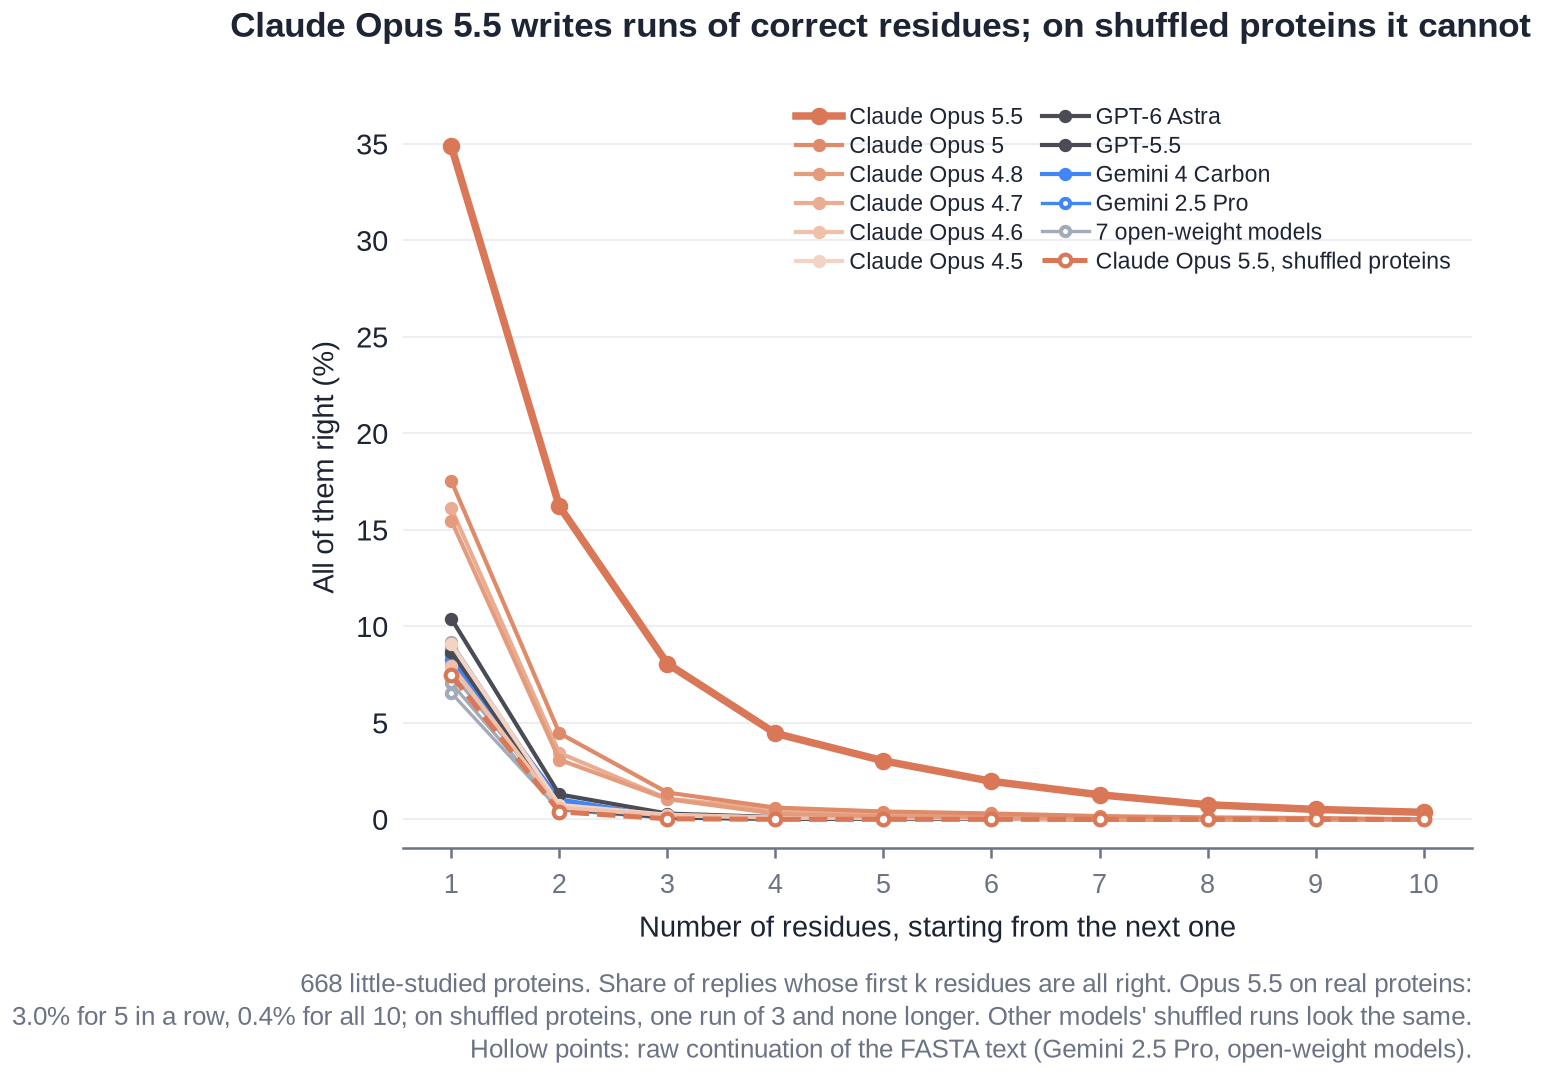
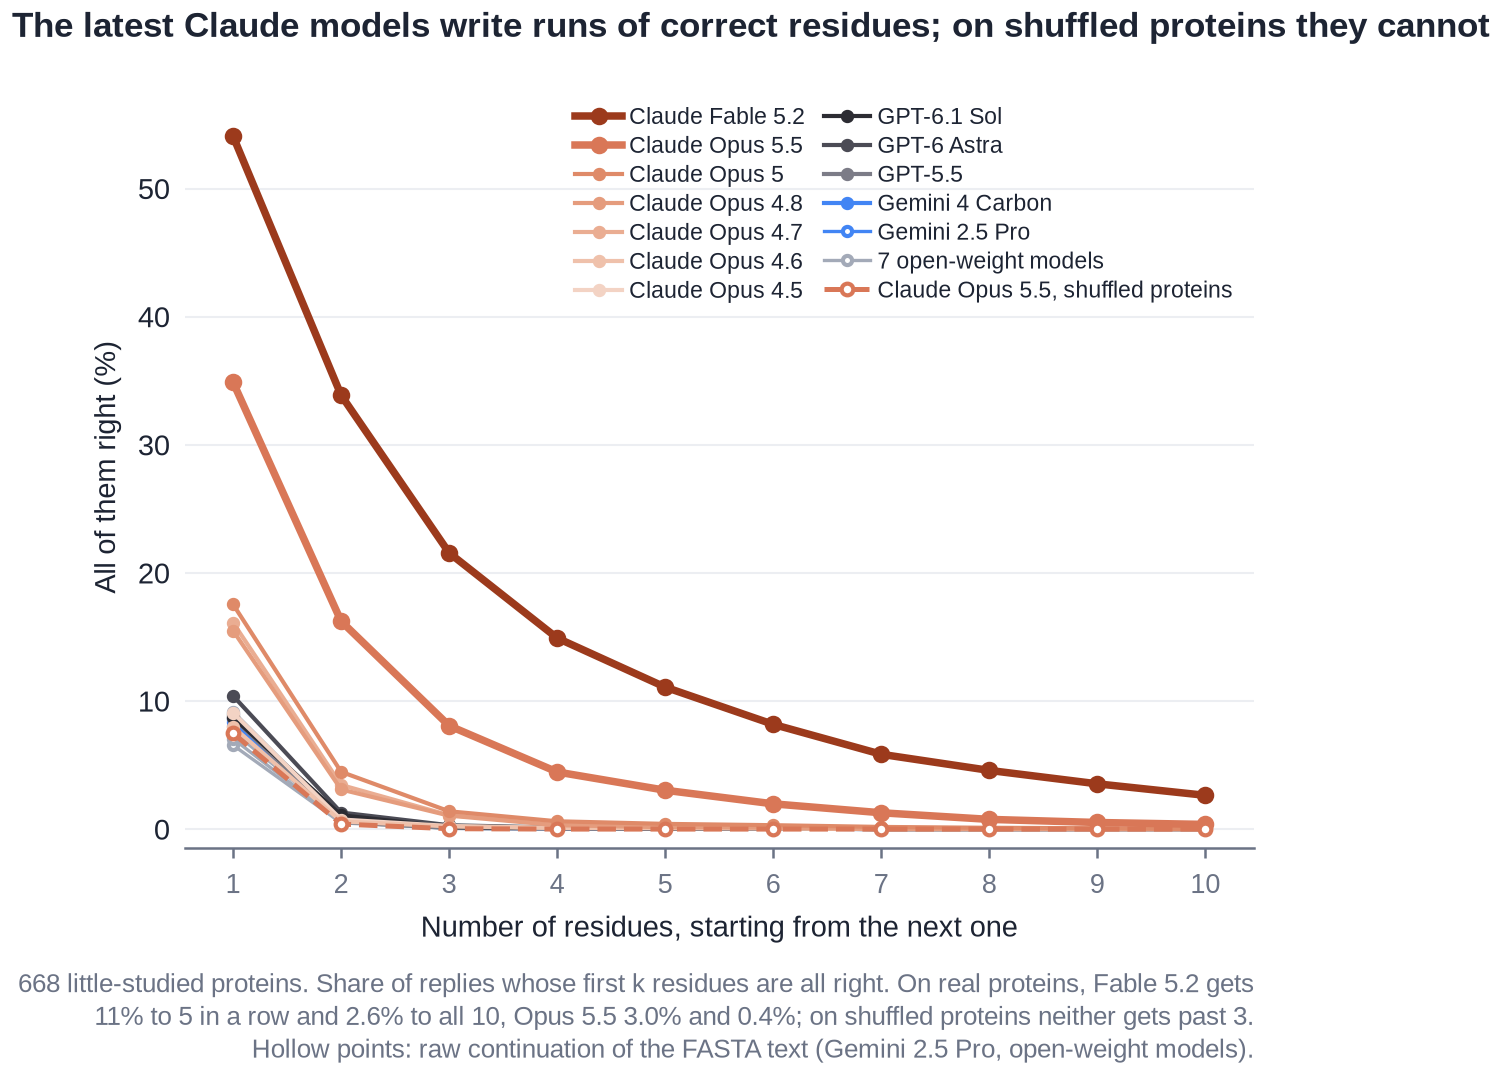
Make the post about the latest Claude models, adding Fable 5.2 and GPT-6.1 Sol
Claude Fable 5.2 scores +45.1, well above Opus 5.5 and ProtGPT3-10B;
GPT-6.1 Sol stays near zero. All main-set figures now cover 19 language
models. The appendix adds a no-instruction test and a Fable 5.2 repeat
run, and the methods say how Fable 5.2 was reached.

diff --git a/_posts/2026-11-16-claude-opus-5-5-protein-sequences.md b/_posts/2026-11-16-claude-opus-5-5-protein-sequences.md
@@ -1,7 +1,7 @@
 ---
 layout: distill
-title: "Claude Opus 5.5 was trained on protein sequences at scale"
-description: "A next-amino-acid test on little-studied proteins, with a shuffled control, finds sequence data in one frontier model's training and no sign of it in the others."
+title: "The latest Claude models were trained on protein sequences at scale"
+description: "A next-amino-acid test on little-studied proteins, with a shuffled control, finds sequence data in the latest Claude models' training and no sign of it in other frontier models."
 date: 2026-11-16
 tags: ['AI', 'biology', 'LLM', 'evaluation']
 categories: blog
@@ -10,7 +10,7 @@ bibliography: 2026-11-16-claude-opus-5-5-protein-sequences.bib
 toc:
   - name: "Motivation"
   - name: "Method: next-amino-acid prediction on little-studied proteins"
-  - name: "Results: only Claude Opus 5.5 predicts them"
+  - name: "Results: only the latest Claude models predict them"
   - name: "Comparison with protein language models"
   - name: "Evidence that this comes from training data"
   - name: "Famous proteins and variant ranking"
@@ -67,7 +67,7 @@ _styles: |
 ---
 
 <div class="bp-lede" markdown="1">
-**Claude Opus 5.5 was trained on protein sequences, at scale.** Give it the start of a little-studied bacterial protein and it predicts the next amino acid far better than when the same protein is shuffled. No other model we tested can do this: not GPT, not Gemini, not seven open-weight models. The bigger a protein's family, the better Opus 5.5 does, even in families with no papers at all. The ability first appears in Opus 4.7 and jumps in Opus 5.5, which matches ProtGPT3-10B, the largest open protein language model of its kind.
+**The latest Claude models were trained on protein sequences, at scale.** Give Claude Fable 5.2 or Claude Opus 5.5 the start of a little-studied bacterial protein and it predicts the next amino acid far better than when the same protein is shuffled. No other model we tested can do this: not GPT, not Gemini, not seven open-weight models. The ability first appears in Opus 4.7, grows in Opus 5.5, which matches ProtGPT3-10B, the largest open protein language model of its kind, and is strongest in Fable 5.2, which beats it by a wide margin. It holds even in protein families with no papers at all.
 </div>
 
 ## Motivation
@@ -90,49 +90,49 @@ The proteins are little-studied: 668 of them, from 167 Pfam families of unknown 
 
 We also looked at longer continuations: how often a model gets all 10 requested residues right, and how far it can recite a famous protein when asked for 200 residues (Appendix B).
 
-## Results: only Claude Opus 5.5 predicts them
+## Results: only the latest Claude models predict them
 
 <figure class="bp-figure" markdown="0">
-  <img src="{{ '/assets/img/llm-bioseq-probe/fig1_protein.png' | relative_url }}?v=20261117b" alt="Forest plot of the real-minus-shuffled gap for 17 language models: Claude Opus 5.5 at +27.4 points, earlier Claude Opus models up to 10, every other model between 0 and 3.">
+  <img src="{{ '/assets/img/llm-bioseq-probe/fig1_protein.png' | relative_url }}?v=20261117d" alt="Forest plot of the real-minus-shuffled gap for 19 language models: Claude Fable 5.2 at +45.1 points, Claude Opus 5.5 at +27.4, earlier Claude Opus models up to 10, every other model between 0 and 3.">
   <figcaption>Filled points: the chat prompt. Hollow points: raw next-token continuation of the FASTA text, through a completion endpoint or a prefilled reply, for models that allow it.</figcaption>
 </figure>
 
-Opus 5.5's gap is 27.4 points (95% CI 24.7 to 30.0), and it shows up in 95% of families. Within Claude, Opus 4.5 and 4.6 show nothing, Opus 4.7 to 5 reach 8 to 10 points, and Opus 5.5 jumps to 27. The open-weight models stay flat even when they simply continue the raw FASTA text, the way they were trained. The lead is not just on the first residue: Opus 5.5 is still 18.5 points ahead at the tenth, and it writes runs of correct residues that no other model, and no shuffled protein, gets close to (Appendix B).
+Fable 5.2 gets the next amino acid right 54% of the time on real proteins and 9% on shuffled ones, a gap of 45.1 points (95% CI 42.5 to 47.6) that shows up in 98% of families. Opus 5.5's gap is 27.4 points (24.7 to 30.0), in 95% of families. Within the Opus line, Opus 4.5 and 4.6 show nothing, Opus 4.7 to 5 reach 8 to 10 points, and Opus 5.5 jumps to 27. All three GPT models, the newest GPT-6.1 Sol included, stay below 3 points, and the open-weight models stay flat even when they simply continue the raw FASTA text, the way they were trained. The lead is not just on the first residue: at the tenth residue Fable 5.2 is still 38.7 points ahead and Opus 5.5 18.5, and both write runs of correct residues that no other model, and no shuffled protein, gets close to (Appendix B).
 
 ## Comparison with protein language models
 
-Protein language models learn only from sequences, which makes them a natural yardstick. The closest match to an LLM is ProtGPT3<d-cite key="garibbo2026protgpt3"></d-cite>, released this year: it reads a protein left to right and predicts the next residue, and its 10-billion-parameter version is the largest open model of its kind. Given exactly the same input, Opus 5.5 matches it.
+Protein language models learn only from sequences, which makes them a natural yardstick. The closest match to an LLM is ProtGPT3<d-cite key="garibbo2026protgpt3"></d-cite>, released this year: it reads a protein left to right and predicts the next residue, and its 10-billion-parameter version is the largest open model of its kind. Given exactly the same input, Opus 5.5 matches it and Fable 5.2 beats it by 17 points.
 
 <figure class="bp-figure" markdown="0">
-  <img src="{{ '/assets/img/llm-bioseq-probe/fig6_protein_lm.png' | relative_url }}?v=20261117b" alt="Dot plot: ProtGPT3-10B +27.7 and Claude Opus 5.5 +27.4 at the top; ESM C 600M +13.0, ProtGPT3-1.3B +11.6, ProtGPT2 +10.2, ESM3-open +8.5 and ESM-2 650M +7.0 well below.">
+  <img src="{{ '/assets/img/llm-bioseq-probe/fig6_protein_lm.png' | relative_url }}?v=20261117d" alt="Dot plot: Claude Fable 5.2 +45.1 at the top, then ProtGPT3-10B +27.7 and Claude Opus 5.5 +27.4; ESM C 600M +13.0, ProtGPT3-1.3B +11.6, ProtGPT2 +10.2, ESM3-open +8.5 and ESM-2 650M +7.0 well below.">
 </figure>
 
-ProtGPT3-10B gets more answers right (38.4% vs 34.9%), but it also does better on shuffled proteins (10.7% vs 7.5%) because it knows amino acid composition better. The gap, which is what each model knows about order, comes out the same. ESM models are built to see both sides of a residue, so this test is harder for them. Appendix C has all seven models.
+ProtGPT3-10B gets more answers right than Opus 5.5 (38.4% vs 34.9%), but it also does better on shuffled proteins (10.7% vs 7.5%) because it knows amino acid composition better, so the gap, which is what each model knows about order, comes out the same. Fable 5.2 gets 54.1% right on real proteins and 9.0% on shuffled ones. ESM models are built to see both sides of a residue, so this test is harder for them. Appendix C has all seven models.
 
 ## Evidence that this comes from training data
 
 <figure class="bp-figure" markdown="0">
-  <img src="{{ '/assets/img/llm-bioseq-probe/fig5_family_size.png' | relative_url }}?v=20261117b" alt="Line chart: Claude Opus 5.5 and ProtGPT3-10B both rise from about 21 to 24 points in families of 300 to 1,000 proteins to 37 points in families over 10,000; other models stay near zero.">
+  <img src="{{ '/assets/img/llm-bioseq-probe/fig5_family_size.png' | relative_url }}?v=20261117d" alt="Line chart: Claude Opus 5.5 and ProtGPT3-10B both rise from about 21 to 24 points in families of 300 to 1,000 proteins to 37 points in families over 10,000; Claude Fable 5.2 stays between 41 and 46 in every bin; other models stay near zero.">
 </figure>
 
-If the signal comes from training on sequences, bigger families should be easier, and they are: Opus 5.5 gains 21 points on families of 300 to 1,000 proteins and 37 on families over 10,000 (Spearman 0.27, p = 0.0002). ProtGPT3-10B, trained on nothing but sequences, traces the same curve, and Opus 4.7 to 5 follow it at a lower level. Two other explanations don't hold up:
+If the signal comes from training on sequences, bigger families should be easier, and they are: Opus 5.5 gains 21 points on families of 300 to 1,000 proteins and 37 on families over 10,000 (Spearman 0.27, p = 0.0002). ProtGPT3-10B, trained on nothing but sequences, traces the same curve, and Opus 4.7 to 5 follow it at a lower level. Fable 5.2 is the exception: it is as good on small families as on large ones (rho 0.00). Two other explanations for the signal don't hold up:
 
-- **Papers.** In the 128 families with no papers at all, the gap is 26.8 points and still rises with family size (rho 0.28, p = 0.001). Across families it has nothing to do with how many papers exist (rho 0.05).
-- **Reasoning.** More than half the time Opus 5.5 answers in 15 tokens or fewer, essentially just the answer, and it is still right 35.6% of the time (7.3% on shuffled proteins). GPT-6 Astra thinks for over 200 tokens per question and gets about 10%.
+- **Papers.** In the 128 families with no papers at all, the gap is 26.8 points for Opus 5.5 and 45.9 for Fable 5.2, and for Opus 5.5 it still rises with family size (rho 0.28, p = 0.001). Across families it has nothing to do with how many papers exist (rho 0.05).
+- **Reasoning.** Fable 5.2 writes about 30 tokens per answer, and more than half the time Opus 5.5 answers in 15 tokens or fewer, essentially just the answer, and is still right 35.6% of the time (7.3% on shuffled proteins). GPT-6 Astra and GPT-6.1 Sol think for hundreds of tokens per question and stay near 10%.
 
 ## Famous proteins and variant ranking
 
 <figure class="bp-figure" markdown="0">
-  <img src="{{ '/assets/img/llm-bioseq-probe/fig3_known_vs_obscure.png' | relative_url }}?v=20261117b" alt="Dumbbell chart: on well-known proteins many models score high; on obscure proteins Claude Opus 5.5 and ProtGPT3-10B stay high while Gemini 4 Carbon drops to near zero.">
+  <img src="{{ '/assets/img/llm-bioseq-probe/fig3_known_vs_obscure.png' | relative_url }}?v=20261117d" alt="Dumbbell chart: on well-known proteins many models score high; on obscure proteins Claude Opus 5.5 and ProtGPT3-10B stay high while Gemini 4 Carbon drops to near zero.">
 </figure>
 
-Famous proteins are a different story. Many models do well on them, and several recite hundreds of residues letter for letter (Appendix B), because these sequences are everywhere in papers and on the web. Gemini 4 Carbon scores +47.6 on famous vertebrate proteins and falls to +5.3 on obscure ones. Opus 5.5 holds up (+51.9 to +33.3), and so does ProtGPT3-10B (+51.4 to +38.2).
+Famous proteins are a different story. Many models do well on them, and several recite hundreds of residues letter for letter (Appendix B), because these sequences are everywhere in papers and on the web. Gemini 4 Carbon scores +47.6 on famous vertebrate proteins and falls to +5.3 on obscure ones. Opus 5.5 holds up (+51.9 to +33.3), and so does ProtGPT3-10B (+51.4 to +38.2). This first round predates Fable 5.2 and GPT-6.1 Sol, so they are not in the figure.
 
-This also squares our result with the SOD1 post and PG-LLM. Ranking variants of a well-known protein can lean on biology and the literature: which residues are buried, which substitutions break a helix, which mutations are known in ALS. In PG-LLM, accuracy doesn't change with alignment depth and improves with more thinking, both signs of that route. Our test shuts it out. GPT-6 is good at the first kind of task and weak at the second; Opus 5.5 is good at both.
+This also squares our result with the SOD1 post and PG-LLM. Ranking variants of a well-known protein can lean on biology and the literature: which residues are buried, which substitutions break a helix, which mutations are known in ALS. In PG-LLM, accuracy doesn't change with alignment depth and improves with more thinking, both signs of that route. Our test shuts it out. GPT-6 is good at the first kind of task and weak at the second; the latest Claude models are good at both.
 
 ## What this means
 
-Opus 5.5 learned the statistics of protein families that are barely studied, and that takes a lot of sequence data, not a few examples. How broad the signal is, and how closely it tracks a protein language model, suggests protein sequences were a sizeable part of its training, possibly in pretraining, though our test can't say which phase or where the data came from. On DNA the picture is narrower: Opus 5.5 predicts human and mouse coding sequence but not the rest of the genome, and barely the bacterial genes behind the very proteins it knows (Appendix A). It learned proteins, not genomes. And it learned families, not individual sequences: it can't recite these obscure proteins.
+The latest Claude models learned protein families that are barely studied, and that takes a lot of sequence data, not a few examples. How broad the signal is, and how closely Opus 5.5 tracks a protein language model, suggests protein sequences were a sizeable part of their training, possibly in pretraining, though our test can't say which phase or where the data came from. Fable 5.2 goes further than any protein language model we could run. On DNA the picture is narrower: Opus 5.5 predicts human and mouse coding sequence but not the rest of the genome, and barely the bacterial genes behind the very proteins it knows (Appendix A). It learned proteins, not genomes.
 
 ## Code and data
 
@@ -143,7 +143,7 @@ All code, test sets, model outputs and figures are in [llm-bioseq-probe](https:/
 ```bibtex
 @misc{tu2026bioseq,
   author = {Tu, Xinming and Chen, Leo Tianlai},
-  title  = {Claude Opus 5.5 was trained on protein sequences at scale},
+  title  = {The latest Claude models were trained on protein sequences at scale},
   year   = {2026},
   month  = nov,
   url    = {https://xinmingtu.cn/blog/2026/claude-opus-5-5-protein-sequences/},
@@ -156,34 +156,34 @@ All code, test sets, model outputs and figures are in [llm-bioseq-probe](https:/
 ### A. DNA
 
 <figure class="bp-figure" markdown="0">
-  <img src="{{ '/assets/img/llm-bioseq-probe/fig2_dna.png' | relative_url }}?v=20261117b" alt="Forest plot by genomic region: Claude Opus 5.5 predicts human and mouse coding sequence; nothing clear elsewhere.">
+  <img src="{{ '/assets/img/llm-bioseq-probe/fig2_dna.png' | relative_url }}?v=20261117d" alt="Forest plot by genomic region: Claude Opus 5.5 predicts human and mouse coding sequence; nothing clear elsewhere.">
 </figure>
 
 220-nucleotide windows, 200 shown and 20 to predict, from hg38, mm39 and the bacterial genes behind the test proteins, 500 per region. Non-coding windows contain no repeats, and the control shuffles each window keeping its dinucleotide counts. Opus 5.5 wrote all 20 nucleotides right 25 times in 500 human coding windows; a blind guess does that about once in a trillion. Gemini 4 Carbon blocks most DNA prompts before answering, so it is not shown.
 
 ### B. Longer continuations
 
-**All 10 residues right.** Each question asks for the next 10 residues. On the 668 little-studied proteins, Claude Opus 5.5 gets all 10 right at 12 real cuts and at none of the shuffled ones. If its residues were independent guesses at its own per-residue accuracy, it would get 0.56 by chance. That is 21 times chance, but still only a handful of cuts: Opus 5.5 mostly knows the families, not each protein's exact letters.
+**All 10 residues right.** Each question asks for the next 10 residues. On the 668 little-studied proteins, Claude Fable 5.2 gets all 10 right at 88 real cuts and Opus 5.5 at 12, and neither at any shuffled one. If their residues were independent guesses at their own per-residue accuracy, they would get 15.8 and 0.56 by chance.
 
-**Every position.** Scored one position at a time, Opus 5.5's gap falls slowly, from 27.4 points at the first residue to 18.5 at the tenth. Opus 4.7, 4.8 and 5 fade faster, and the other 13 models, including those run as raw continuation, stay near zero all the way.
+**Every position.** Scored one position at a time, the gap falls slowly: from 45.1 points at the first residue to 38.7 at the tenth for Fable 5.2, and from 27.4 to 18.5 for Opus 5.5. Opus 4.7, 4.8 and 5 fade faster, and the other 14 models, including those run as raw continuation, stay near zero all the way.
 
 <figure class="bp-figure" markdown="0">
-  <img src="{{ '/assets/img/llm-bioseq-probe/fig7_by_position.png' | relative_url }}?v=20261117c" alt="Line chart: real-minus-shuffled gap at positions 1 to 10 of the reply; Claude Opus 5.5 falls from 27.4 to 18.5, Opus 4.7 to 5 from about 9 to between 2 and 5, other models near zero.">
+  <img src="{{ '/assets/img/llm-bioseq-probe/fig7_by_position.png' | relative_url }}?v=20261117d" alt="Line chart: real-minus-shuffled gap at positions 1 to 10 of the reply; Claude Opus 5.5 falls from 27.4 to 18.5, Opus 4.7 to 5 from about 9 to between 2 and 5, other models near zero.">
 </figure>
 
-**Runs in a row.** Opus 5.5 gets the first 2 residues right 16% of the time, the first 5 3% and all 10 0.4%. On shuffled proteins it manages one run of 3 and nothing longer. Once it is on track it gets surer: after one right residue the next is right 47% of the time, after four in a row 68%.
+**Runs in a row.** Fable 5.2 gets the first 2 residues right 34% of the time, the first 5 11% and all 10 2.6%; Opus 5.5 16%, 3% and 0.4%. On shuffled proteins neither gets past 3. Once on track they get surer: after one right residue, Opus 5.5 gets the next right 47% of the time, after four in a row 68%.
 
 <figure class="bp-figure" markdown="0">
-  <img src="{{ '/assets/img/llm-bioseq-probe/fig8_runs.png' | relative_url }}?v=20261117c" alt="Line chart: share of replies whose first k residues are all right; Claude Opus 5.5 starts at 35% and stays above other models out to 10 residues, while its shuffled curve drops to zero by 3.">
+  <img src="{{ '/assets/img/llm-bioseq-probe/fig8_runs.png' | relative_url }}?v=20261117d" alt="Line chart: share of replies whose first k residues are all right; Claude Opus 5.5 starts at 35% and stays above other models out to 10 residues, while its shuffled curve drops to zero by 3.">
 </figure>
 
 **Reciting well-known proteins.** At 158 points in well-studied proteins, each model was asked for the next 200 residues at once.
 
 <figure class="bp-figure" markdown="0">
-  <img src="{{ '/assets/img/llm-bioseq-probe/fig4_recall.png' | relative_url }}?v=20261117b" alt="Bar chart: how often each model continues a famous protein letter for letter for 50, 100 and 200 residues.">
+  <img src="{{ '/assets/img/llm-bioseq-probe/fig4_recall.png' | relative_url }}?v=20261117d" alt="Bar chart: how often each model continues a famous protein letter for letter for 50, 100 and 200 residues.">
 </figure>
 
-Opus 5.5 gets past 100 residues 24 times (longest run 305), Gemini 4 Carbon 23 times (201), Opus 5 14 times (325). GPT-6.1 Sol never reaches 100, and GPT-5.5 never gets past 2. On the little-studied proteins, Opus 5.5 rarely gets past 10.
+Opus 5.5 gets past 100 residues 24 times (longest run 305), Gemini 4 Carbon 23 times (201), Opus 5 14 times (325). GPT-6.1 Sol never reaches 100, and GPT-5.5 never gets past 2. 
 
 ### C. Protein language models
 
@@ -203,6 +203,8 @@ The last row is fill-in-the-blank rather than continuation: ESM-2 also sees the 
 
 - **Prompt format.** Asking Opus 5.5 to copy the sequence and then continue gives the same gap as the standard prompt (19.3 vs 19.8 points on the same subset of questions).
 - **Refusals.** Non-answers are excluded and counted: 1% for Opus 5.5. Counting them as wrong moves its gap by under 1 point. GPT-4o, DeepSeek, Qwen, Kimi, GLM and gpt-oss often declined to guess a sequence; a best-guess prompt made them answer and did not change the picture.
+- **No instruction.** Sent the sequence alone, with no request to continue it, GPT-5.5 and Opus 5.5 almost always describe it instead (on a sample of 400 questions each), so chat models need the instruction.
+- **Repeat runs.** Asked 400 of the same questions again, Fable 5.2 scores 57.5% on real and 9.5% on shuffled proteins, against 57.5% and 8.5% the first time.
 - **A first round.** A smaller run of 20 models on 37 families, half well-known and half obscure, gave the same picture and set the design of the main run.
 
 ### E. Methods
@@ -223,7 +225,7 @@ MRSGGQPLHPQPAHRFHYRTAARPRAAWILGCVLHLADAEEGARFWWQYAAGAGDDAAAY
 CLYLHCLVLGDSYAAALWREQTSLDTPPHDFDDTSVPTVLRILSRLTPA
 ```
 
-Each model runs through its own API with temperature 0 where it is accepted, thinking off or at its lowest setting, no tools, and one sample per question. Models that declined to guess (GPT-4o, DeepSeek, Qwen, Kimi, GLM, gpt-oss) also got a version that adds "Give your best guess even if you are uncertain. Do not explain or refuse."; those runs are marked separately.
+Each model runs through its own API with temperature 0 where it is accepted, thinking off or at its lowest setting, no tools, and one sample per question. Claude Fable 5.2 runs through OpenRouter, since Anthropic's API serves it only to workspaces that retain data. Models that declined to guess (GPT-4o, DeepSeek, Qwen, Kimi, GLM, gpt-oss) also got a version that adds "Give your best guess even if you are uncertain. Do not explain or refuse."; those runs are marked separately.
 
 **Scoring.** We take the last line of the reply, keep its letters and read the first one as the predicted next amino acid. A question counts only if that line contains nothing but the 20 standard letters; refusals and other non-answers are excluded and counted (1% for Opus 5.5). Only this first residue is scored. We asked for 10 so that the answer is a sequence rather than a single letter, and used the full 10 only to count exact continuations.
 
@@ -235,8 +237,8 @@ Each model runs through its own API with temperature 0 where it is accepted, thi
 
 **Protein language models.** They get the same prefix and no prompt. ProtGPT3 and ProtGPT2 read it left to right and give a probability for the next token; the ESM models see the prefix, a mask in place of the next residue, and the end of the sequence. In every case the prediction is the most likely of the 20 standard amino acids.
 
-Total API cost was about $480, plus a few dollars of GPU time for the protein language models.
+Total API cost was about $520, plus a few dollars of GPU time for the protein language models.
 
 ### F. Safety behaviour seen along the way
 
-Gemini 4 Carbon blocked about 75% of DNA prompts outright. OpenAI rejected 23 GPT-6 requests as possible biological misuse. Claude Sonnet 4.5 refused 97% of requests that started its reply with a protein sequence.
+Gemini 4 Carbon blocked about 75% of DNA prompts outright. OpenAI rejected 23 GPT-6 requests in the first round and 17 GPT-6.1 Sol requests in the main run as possible biological misuse. Claude Sonnet 4.5 refused 97% of requests that started its reply with a protein sequence.
